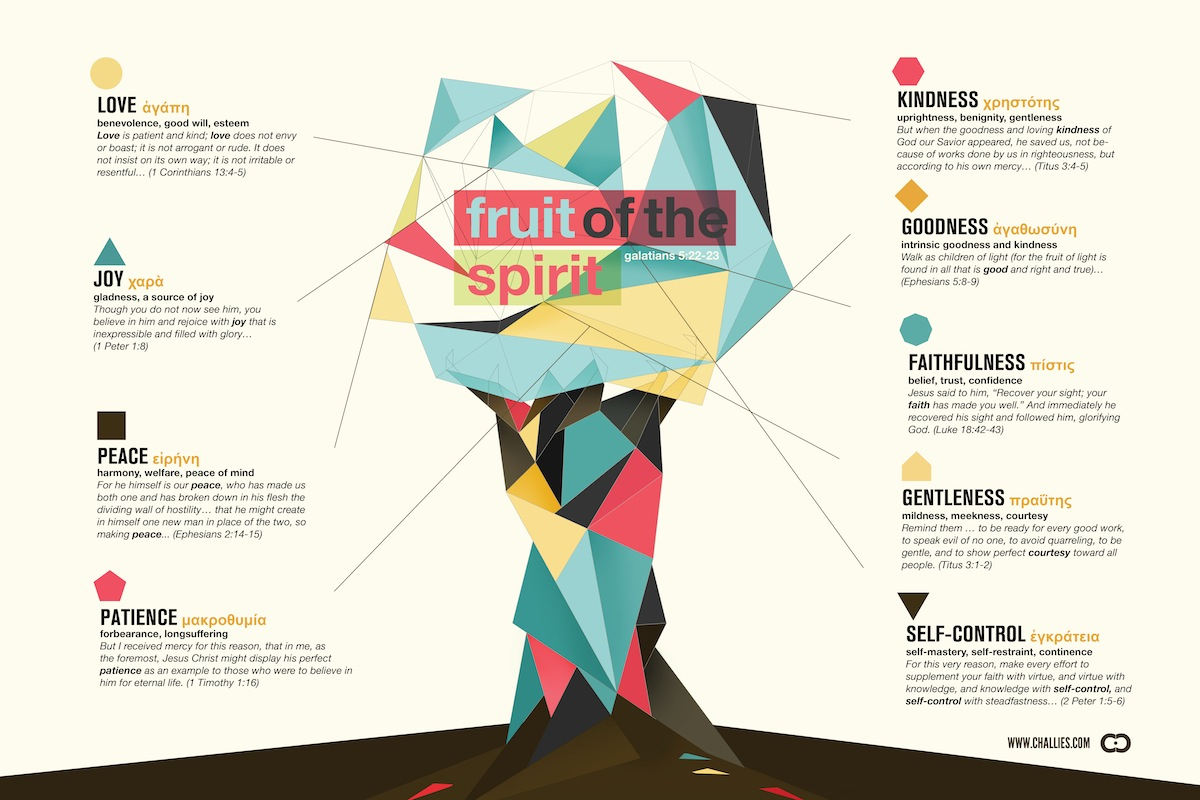
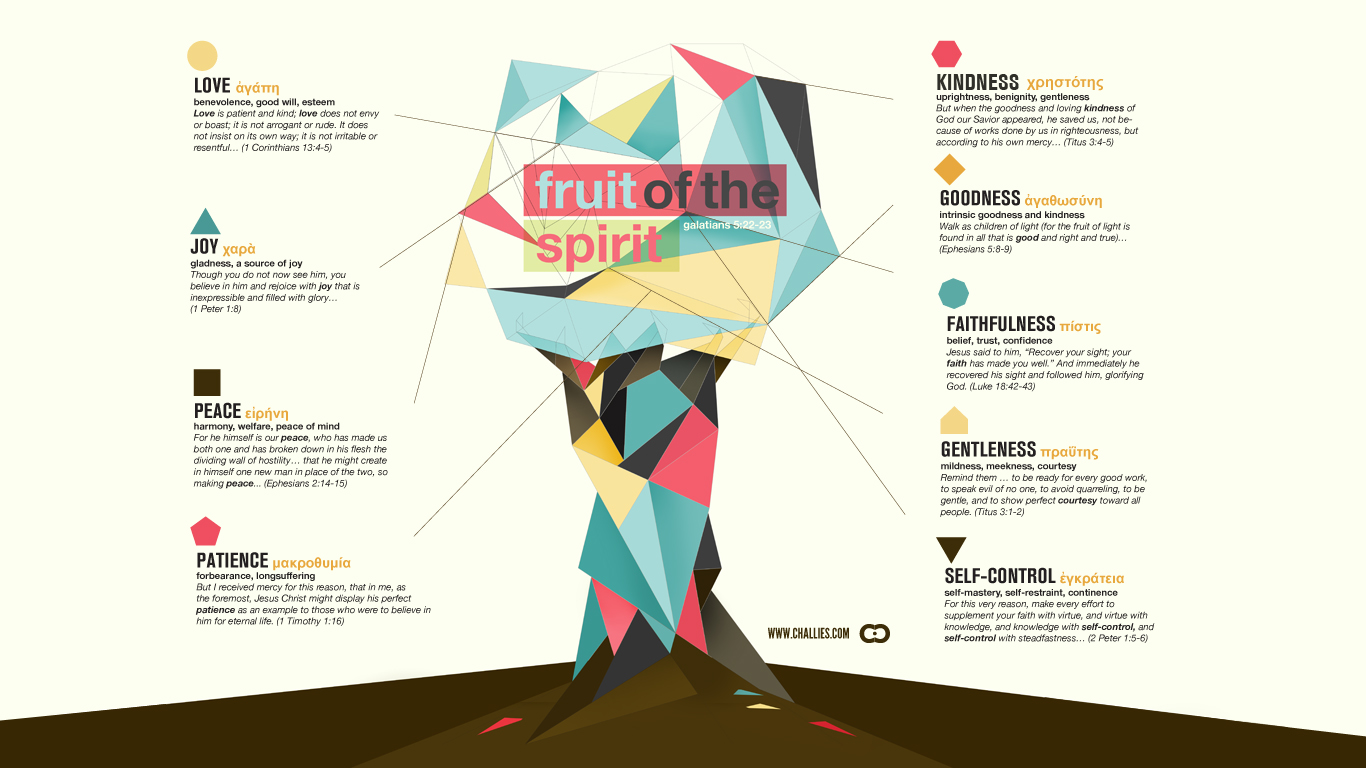
Primary Box
Created centered primary box and centered header in relation to box.

diff --git a/css/style.css b/css/style.css
@@ -13,104 +13,30 @@ html {
 
 body{
 	background-color: black;
-	min-width: 770px;  /* controls nav drawer from shifting down */
+	min-width: 925px;  /* controls nav drawer from shifting down */
 }
-
-
-
-
-
-/* <-- Header --> */
-
-#logo, #title, #nav{
+.grid{
 	display: inline-block;
-	max-height: 110px;
+	margin: 1em;
 }
-#logobox{
+
+
+#primary{
 	position:relative;
+	margin-top:3em;
+	margin-left:3em;
+	margin-right:3em;
+	max-width: 100%; /*controls sizing of primary*/
+	max-height: 100%;
+	min-width: 400px;
+	min-height: 600px;
+	overflow: hidden;
 }
-#logo{
-	float: left;
-	width: 13.5%;
-	margin-top: 15px; /* align logo & title */
-	margin-left:5px;
-	z-index:0;
+#primary img{
+	width:100%; /* maintains full sizing of image */
 }
-#overlay{
-	display:none;
-	position:absolute;
-	margin-left: 5px;
-	margin-top: 15px;
-	z-index: 1;
-}
-
-#title{
-	float: left;
-	width: 73%;
-	text-align: center;
-	font-family: sans-serif;
-	font-size: 0.8em;
-	letter-spacing: 7.5px;
-	text-transform: uppercase;
-}
-#title>h1{
-	margin: 0;
-	margin-top: 28px; /* align logo & title */
-	margin-bottom: 0px;
-	color: white;
-}
-#drawer{
-	float:right;
-	margin-top: 20px;
-	margin-right: 10px;
-}
-#nav{
-	float:right;
-	padding-left:0px;
-
-}
-#nav.js{
-	display:none;
-	text-align:right;
-	margin-bottom: 2px; /* spacing between nav button and menu */
-}
-#menu{
-	color:#fff;
-	display: block;
-	font-size:2em;
-	text-align: right;
-	cursor:pointer;
-
-	-o-transition:.5s;
-	-ms-transition:.5s;
-	-moz-transition:.5s;
-	-webkit-transition:.5s;
-	transition:.5s;
-}
-#menu:hover {
-	color:#98b1c4;
-	-o-transition:.5s;
-	-ms-transition:.5s;
-	-moz-transition:.5s;
-	-webkit-transition:.5s;
-	transition:.5s;
-}
-#nav>li{
-	padding:2px;
-}
-#nav>li>a{
-	font-family:sans-serif;
-	color:#fff;
-	font-size: 1em;
-	text-decoration: none;
-}
-#nav>li>a:hover{
-	color:#98b1c4;
-}
-
-
 
 p{
 	font-family: Garamond;
-	font-size: 1.5em;
+	font-size: 1em;
 }

diff --git a/css/header.css b/css/header.css
@@ -1,0 +1,94 @@
+/* <-- Header --> */
+
+#logo, #title, #nav{
+	display: inline-block;
+	max-height: 110px;
+}
+#logobox{
+	position:relative;
+}
+#logo{
+	float: left;
+	width: 13.5%;
+	margin-top: 2.7em; /* align logo & title */
+	margin-left:3em;
+	z-index:0;
+}
+#overlay{
+	display:none;
+	position:absolute;
+	margin-top: 2.7em;
+	margin-left: 3em;
+	z-index: 1;
+}
+
+#title{
+	float: left;
+	width: 66%;
+	margin-top:2em;
+	text-align: center;
+	font-family: sans-serif;
+	font-size: 0.8em;
+	letter-spacing: 7.5px;
+	text-transform: uppercase;
+}
+#title>h1{
+	margin: 0;
+	margin-top: 1em; /* align logo & title */
+	margin-bottom: 0px;
+	color: white;
+}
+#drawer{
+	position:relative;
+	z-index: 99;
+	float:right;
+	margin-top: 2.7em;
+	margin-right: 3em;
+}
+#nav{
+	float:right;
+	padding-left:0px;
+
+}
+#nav.js{
+	display:none;
+	text-align:right;
+	margin-bottom: 2px; /* spacing between nav button and menu */
+}
+#menu{
+	color:#fff;
+	display: block;
+	font-size:2em;
+	text-align: right;
+	cursor:pointer;
+
+	-o-transition:.5s;
+	-ms-transition:.5s;
+	-moz-transition:.5s;
+	-webkit-transition:.5s;
+	transition:.5s;
+}
+#menu:hover {
+	color:#98b1c4;
+	-o-transition:.5s;
+	-ms-transition:.5s;
+	-moz-transition:.5s;
+	-webkit-transition:.5s;
+	transition:.5s;
+}
+#nav>ul{
+	list-style-type: none;
+}
+#nav>li{
+	list-style-type: none;
+	padding:2px;
+}
+#nav>li>a{
+	font-family:sans-serif;
+	color:#fff;
+	font-size: 1em;
+	text-decoration: none;
+}
+#nav>li>a:hover{
+	color:#98b1c4;
+}

diff --git a/index.html b/index.html
@@ -5,6 +5,7 @@
 <head>
 	<meta charset="UTF-8">
 	<meta name="viewport" content="width=device-width,initial-scale=1.0">
+	<link href="css/header.css" rel="stylesheet" type="text/css"/>
 	<link href="css/style.css" rel="stylesheet" type="text/css"/>
 	<script src="js/jquery-1.11.3.min.js"></script>
 	<script type="text/javascript" src="js/nav.js"></script>
@@ -22,16 +23,21 @@
 			<div id="title"><h1>Redeemed Thought</h1></div>
 			<div id="drawer"><ul id="nav">
 				<li><a href="#">The Gospel</a></li>
-				<li><a href="#">About</li>
-				<li><a href="#">Resources</li>
+				<li><a href="#">About</a></li>
+				<li><a href="#">Resources</a></li>
 			</ul></div>
 		</header>
 
-		<!--About Us & The Gospel-->
-		<div></div>
+		<!-- Primary -->
+		<div id="primary" class="grid">
+			<img src="images/FruitOfTheSpirit.jpg" alt="Fruit of the Spirit">
+		</div>
 
 
-		<!-- Grid -->
+		<!-- Secondary -->
+		<div class="secondary" class="grid">
+
+		</div>
 
 	</div>
 
